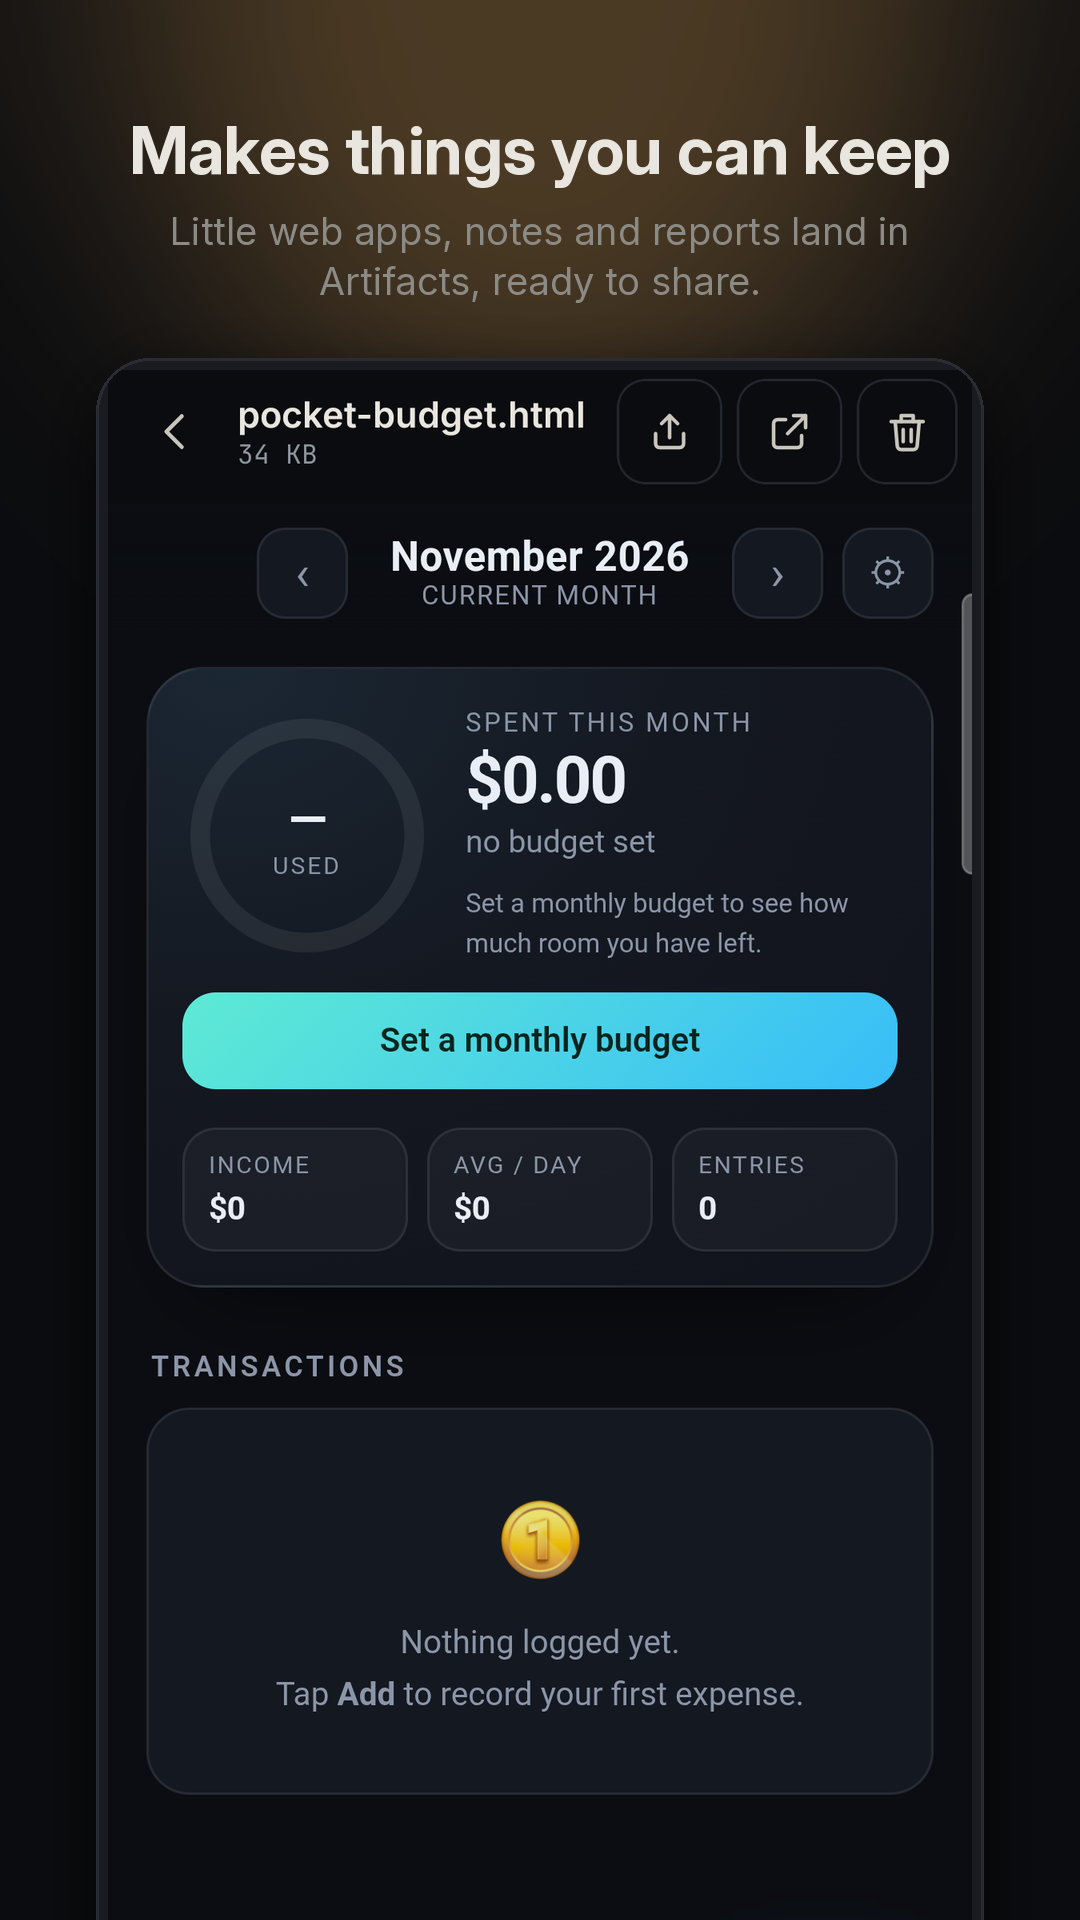
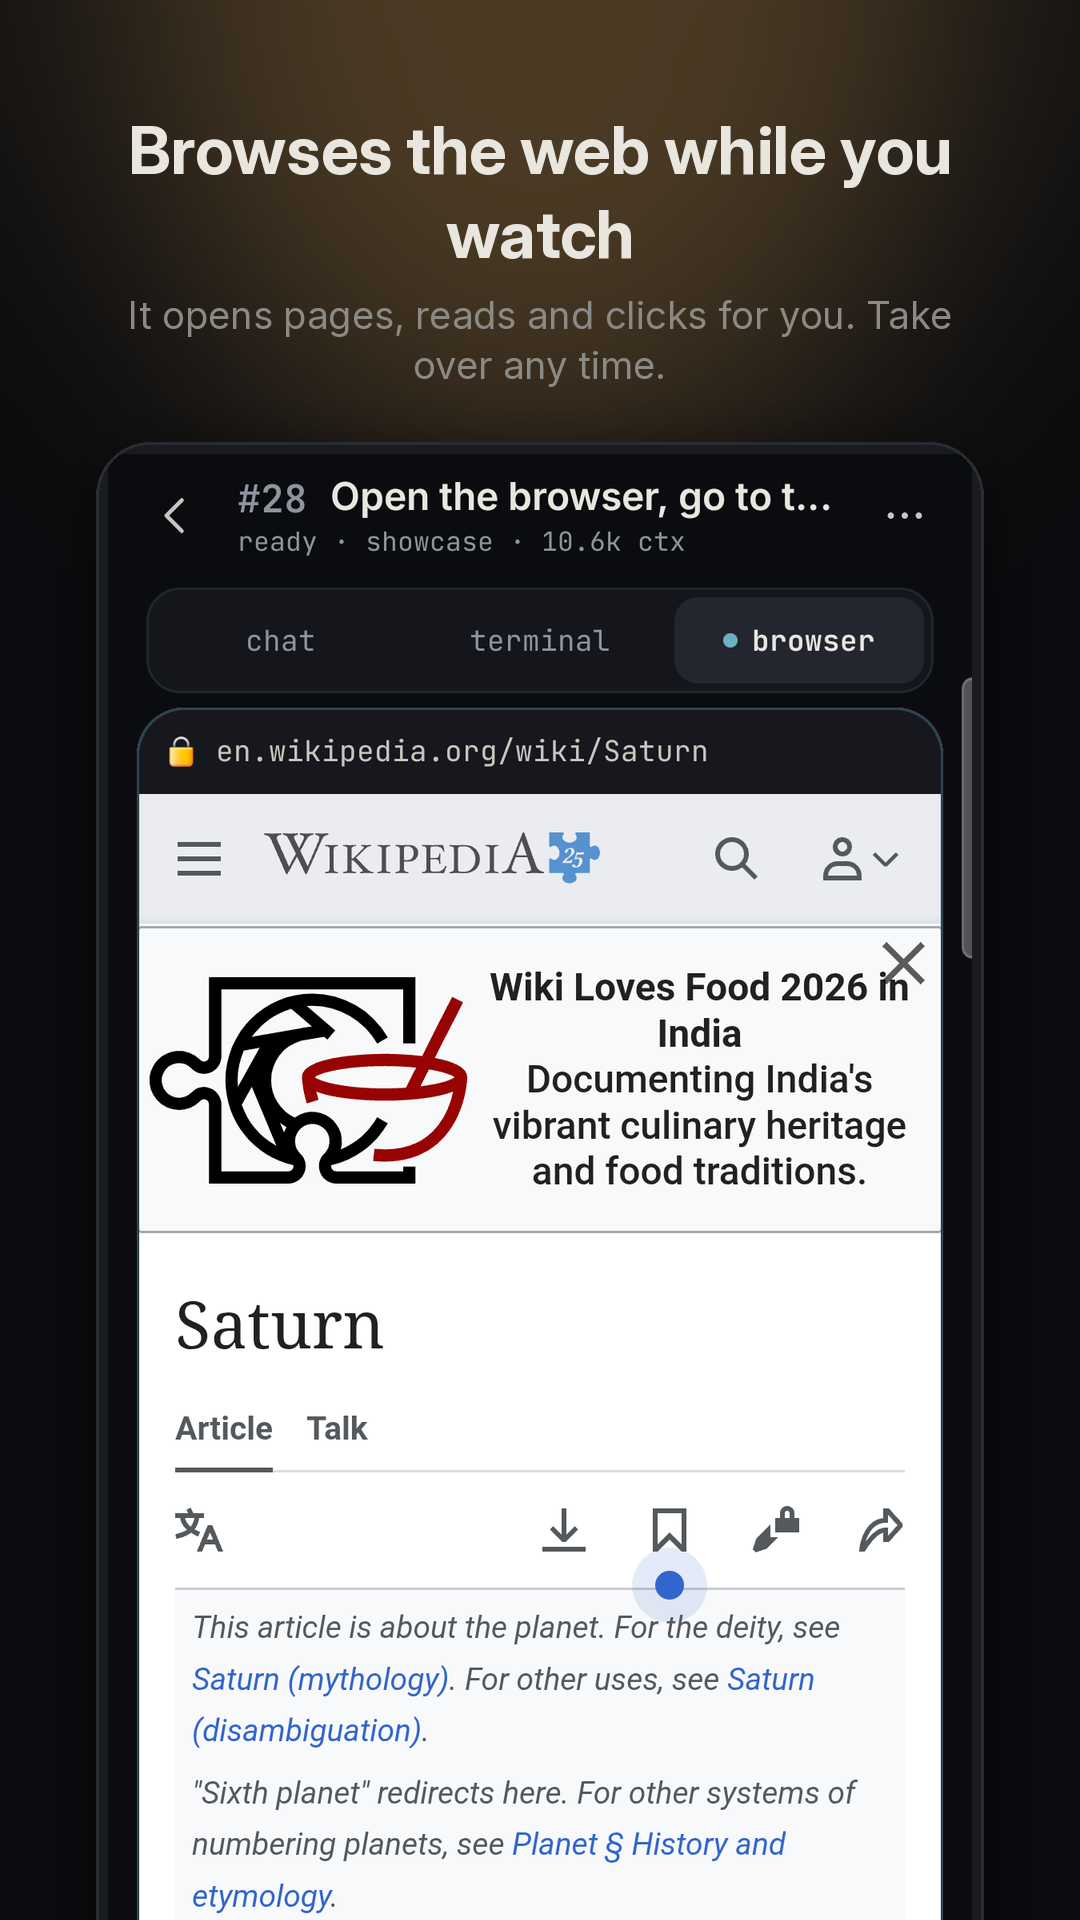
Store screenshots: browser control instead of artifacts

diff --git a/fastlane/make_store_images.py b/fastlane/make_store_images.py
@@ -79,7 +79,7 @@ os.makedirs(os.path.join(OUT,"phoneScreenshots"),exist_ok=True)
 items=[
  ("01-home.png","Every ask becomes its own task","Fire off a few at once. Tap any card to pick it back up."),
  ("02-task.png","Doesn't just chat. Does stuff.","Runs real commands on your phone: battery, weather, files, git."),
- ("03-artifact.png","Makes things you can keep","Little web apps, notes and reports land in Artifacts, ready to share."),
+ ("08-browser.png","Browses the web while you watch","It opens pages, reads and clicks for you. Take over any time."),
  ("05-phone.png","Taps through your apps for you","There's always a Stop button, and it asks before it sends or pays."),
  ("06-store.png","Grab skills from pi.dev","Extensions, skills and themes for the Pi agent, one tap each."),
  ("07-terminal.png","And yes, a real terminal","bash, node, npm and git. No root, no extra apps."),
